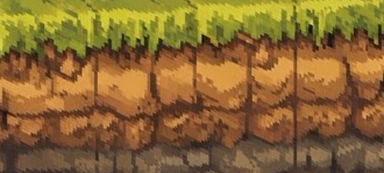
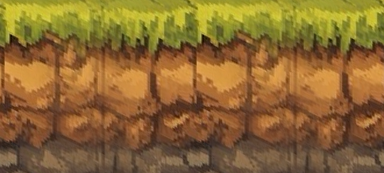
Smooth hills and seamless baked ground by default for every map; flat-top terrains baked like grass; side strips wrap; water, lava and bridges stay level; save new tile sheets as source art
Claude-Session: https://claude.ai/code/session_01UHqCe59nF5EmDm8GvDGD2Y

diff --git a/godot/tools/art/build_art.py b/godot/tools/art/build_art.py
@@ -148,6 +148,59 @@ def bake_ground(blocks_tops_dir):
     save(Image.fromarray(out, 'RGB'), 'tiles', 'ground_grass.png')
 
 
+SEAMLESS_TERRAINS = ['dirt', 'sand', 'stone', 'crag', 'cinder', 'marble', 'mud']  # every flat-top terrain except water, lava, bridge
+
+
+def bake_terrain(name):
+    """The same treatment grass gets, for any terrain with numbered tops (name_NN.png): blend them into one
+    seamless 1024px texture (ground_<name>.png) with feathered overlaps, the variant chosen by smooth noise
+    so neighbouring areas match. The game maps it by position, so there are no tile borders."""
+    import glob
+    import random
+    tdir = os.path.join(OUT, 'tiles')
+    files = sorted(glob.glob(os.path.join(tdir, name + '_[0-9][0-9].png')))
+    tops = [np.asarray(Image.open(f).convert('RGB').resize((96, 96))).astype(np.float32) for f in files]
+    S, STRIDE, WIN, N = 1024, 64, 96, 16
+    rng = random.Random(sum(map(ord, name)))
+    lat = [[rng.random() for _ in range(5)] for _ in range(5)]
+
+    def noise(x, y):
+        fx, fy = x / N * 5, y / N * 5
+        x0, y0 = int(fx) % 5, int(fy) % 5
+        tx, ty = fx - int(fx), fy - int(fy)
+        tx, ty = tx * tx * (3 - 2 * tx), ty * ty * (3 - 2 * ty)
+        a, b = lat[y0][x0], lat[y0][(x0 + 1) % 5]
+        c, d = lat[(y0 + 1) % 5][x0], lat[(y0 + 1) % 5][(x0 + 1) % 5]
+        return (a * (1 - tx) + b * tx) * (1 - ty) + (c * (1 - tx) + d * tx) * ty
+    u = (np.arange(WIN) + .5) / WIN * 2 - 1
+    win1 = np.cos(np.pi * u / 2) ** 2
+    win = np.outer(win1, win1).astype(np.float32)
+    acc = np.zeros((S, S, 3), np.float32)
+    wsum = np.zeros((S, S, 1), np.float32)
+    for j in range(N):
+        for i in range(N):
+            k = min(len(tops) - 1, int(noise(i, j) * len(tops) * 1.25 + rng.random() * .9)) % len(tops)
+            ys = (np.arange(WIN) + j * STRIDE - (WIN - STRIDE) // 2) % S
+            xs = (np.arange(WIN) + i * STRIDE - (WIN - STRIDE) // 2) % S
+            acc[np.ix_(ys, xs)] += tops[k] * win[..., None]
+            wsum[np.ix_(ys, xs)] += win[..., None]
+    save(Image.fromarray((acc / np.maximum(wsum, 1e-3)).clip(0, 255).astype(np.uint8), 'RGB'), 'tiles', 'ground_%s.png' % name)
+
+
+def blend_side_wrap():
+    """Make every side strip seamless where its 4-tile pattern repeats: cross-fade it with a copy shifted by
+    half its width, weighted so the wrap point shows the shifted copy."""
+    import glob
+    for f in glob.glob(os.path.join(OUT, 'tiles', 'side_*.png')):
+        if 'blockgrass' in f or 'sky' in f:
+            continue  # these are already built to wrap
+        a = np.asarray(Image.open(f).convert('RGB')).astype(np.float32)
+        W = a.shape[1]
+        w = (np.sin(np.pi * np.arange(W) / W) ** 2).astype(np.float32)[None, :, None]
+        shifted = np.roll(a, W // 2, axis=1)
+        Image.fromarray((a * w + shifted * (1 - w)).clip(0, 255).astype(np.uint8), 'RGB').save(f)
+
+
 def build_tufts():
     """Four standing grass tufts from the alt grass sheet (green blades only, background dropped)."""
     from sheet_cut import trim
@@ -272,4 +325,7 @@ if __name__ == '__main__':
     build_props()
     build_tufts()
     build_grass_blocks()
+    for terrain in SEAMLESS_TERRAINS:
+        bake_terrain(terrain)
+    blend_side_wrap()
     build_fx_and_ui()
